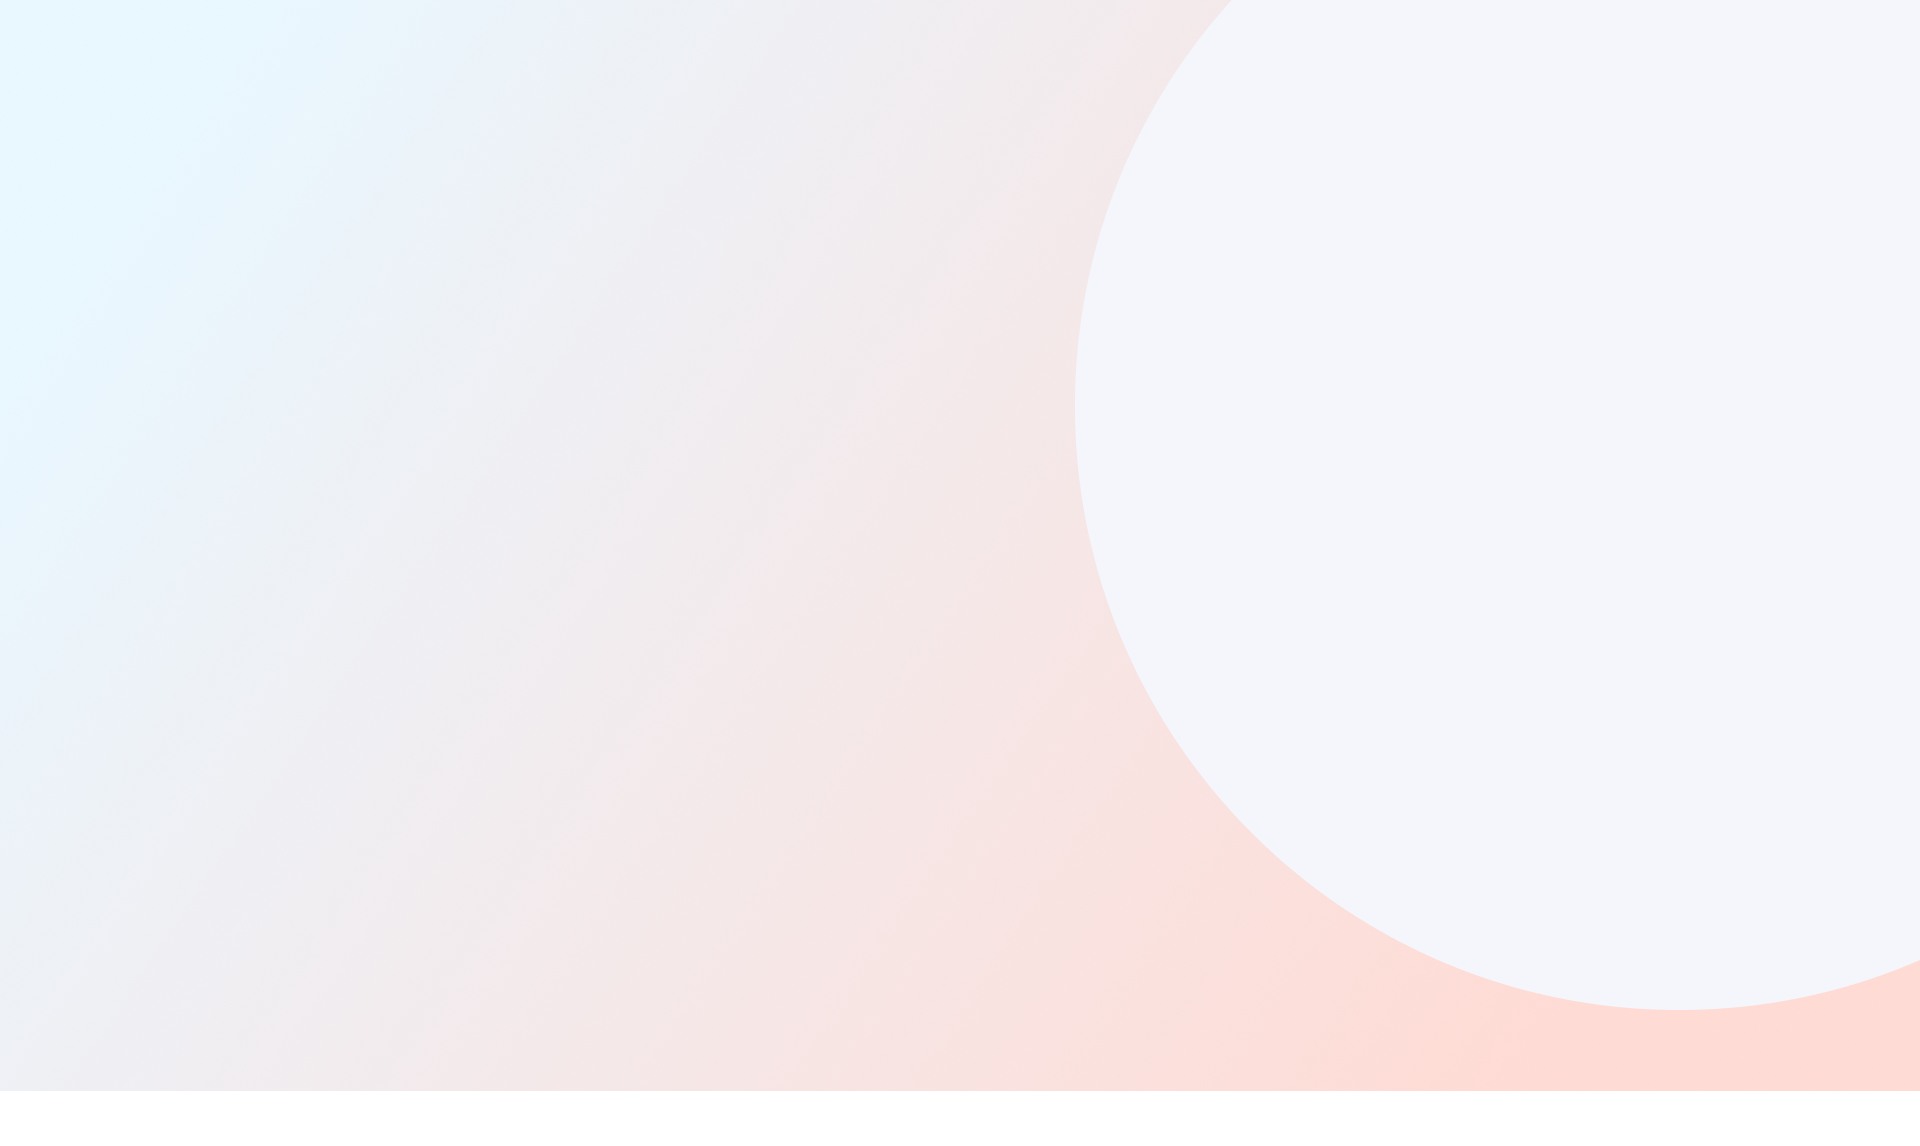
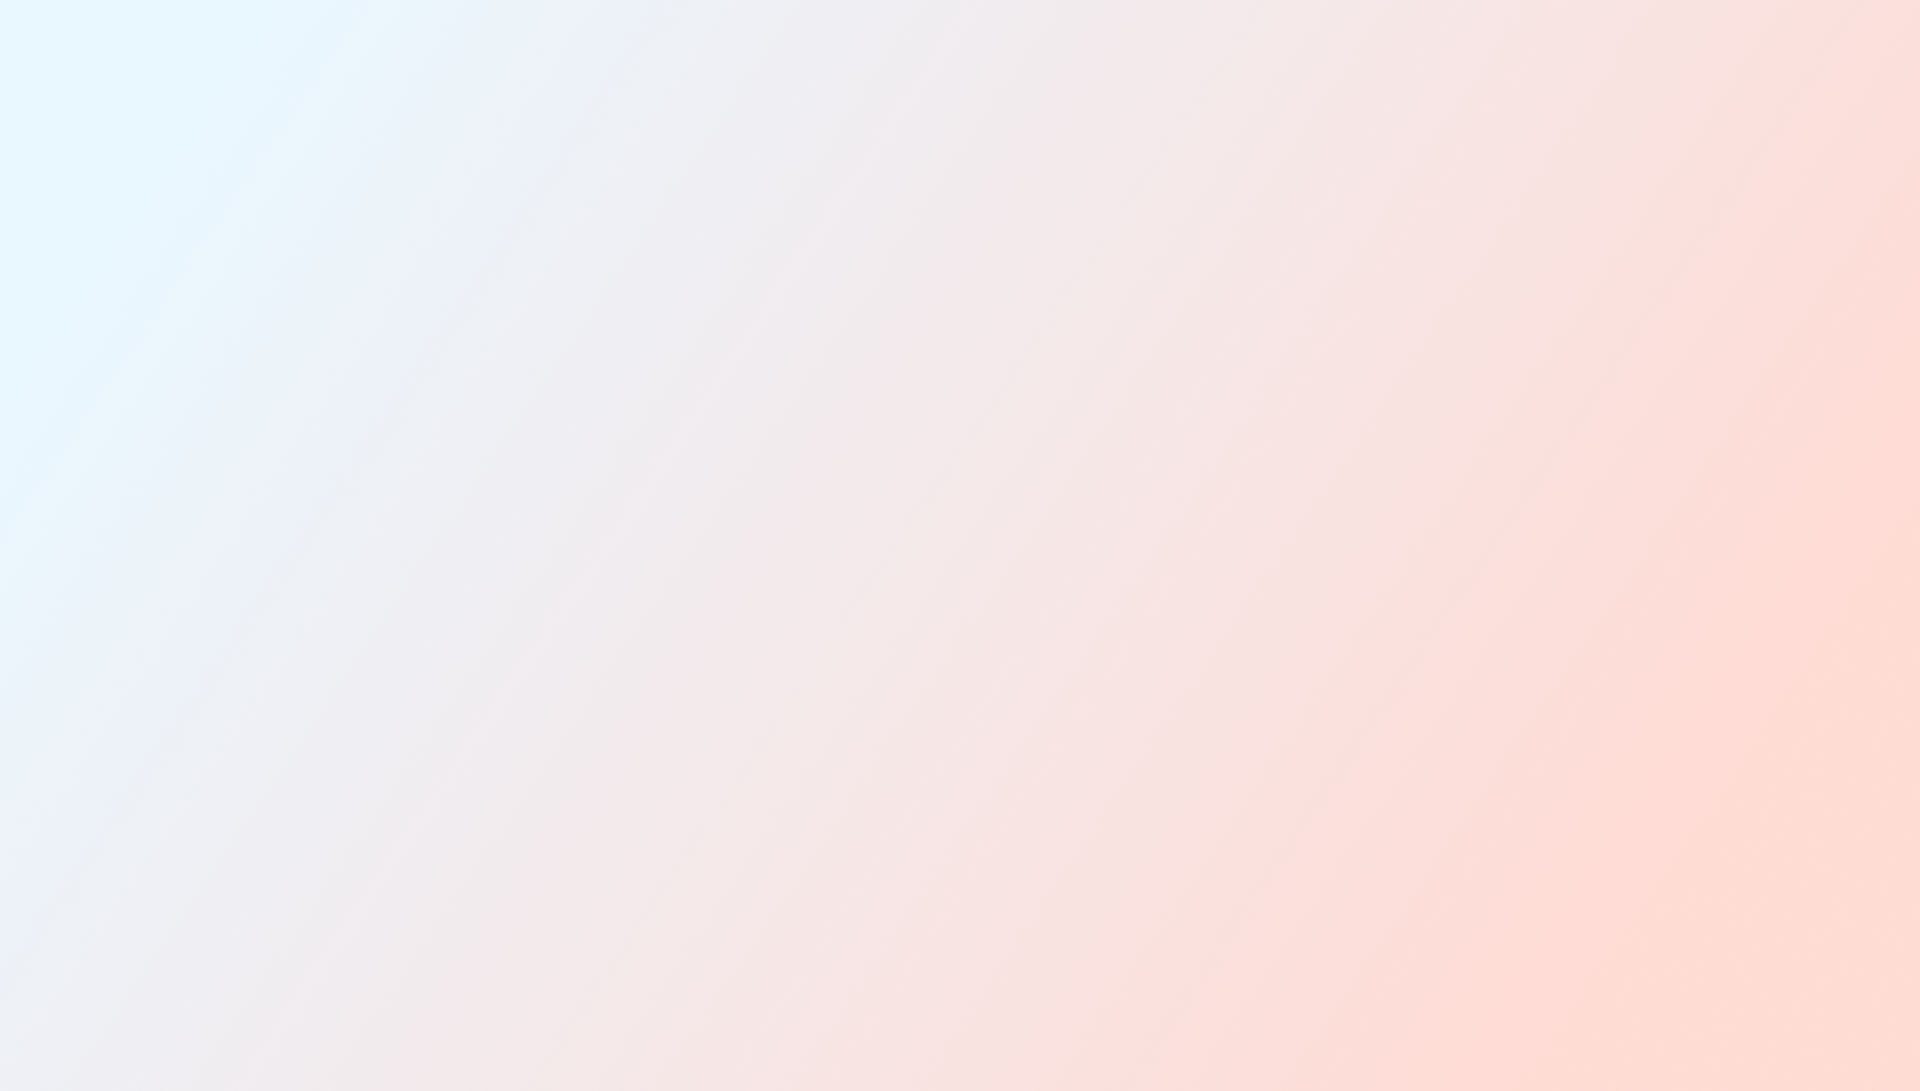
services section

Changed region(s): [[0.5938, 0.0, 1.0, 0.9038], [0.3438, 0.9349, 1.0, 1.0]]

diff --git a/src/components/HomeComponents/Services.jsx b/src/components/HomeComponents/Services.jsx
@@ -1,0 +1,133 @@
+import { Box, Container, Grid, Typography } from "@mui/material";
+import React from "react";
+import Header from "../Molecules/Header";
+import Image from "next/image";
+import CustomButton from "../Atoms/CustomButton";
+const Services = () => {
+  const data = [
+    {
+      id: 1,
+      title: "Social Media Marketing",
+      description:
+        "We let you to be always connect with anyone through a social media network.",
+      iconSrc: "/icons/social-media-icon.png",
+    },
+    {
+      id: 2,
+      title: "Paid Advertising",
+      description:
+        "Advertise your organization with one of the updated search engine algorithm.",
+      iconSrc: "/icons/advertising-icon.png",
+    },
+    {
+      id: 3,
+      title: "Advanced Analytics",
+      description:
+        "Our firm travels with an effective working strategy for all type of tasks.",
+      iconSrc: "/icons/advanced-analytics-icon.png",
+    },
+    {
+      id: 4,
+      title: "SEO Optimization",
+      description:
+        "Be at the top of google search by our incredible and organic SEO technique.",
+      iconSrc: "/icons/seo-rocket-icon.png",
+    },
+    {
+      id: 5,
+      title: "Funnel Optimization",
+      description:
+        "You would see the biggest gift would be from me and to make the others comfortable.",
+      iconSrc: "/icons/funnel-optimization-icon.png",
+    },
+    {
+      id: 6,
+      title: "Content Marketing",
+      description:
+        "Brand your firm with an intelligent team which is deal with social media strategy.",
+      iconSrc: "/icons/marketing-plan-icon.png",
+    },
+  ];
+  return (
+    <Box
+      sx={{
+        py: { xs: "80px", md: "173px" },
+        bgcolor: "secondary.main",
+        color: "white",
+      }}
+    >
+      <Container maxWidth="lg">
+        <Header badge="01 . Services" textColor="white" badgeColor="grey.1">
+          High-impact services to take your business to the next level
+        </Header>
+        <Grid
+          container
+          spacing={3}
+          sx={{
+            mt: { xs: "50px", md: "90px" },
+          }}
+        >
+          {data.map((card) => (
+            <Grid item key={card.id} xs={12} sm={6} md={4}>
+              <Box
+                sx={{
+                  p: { xs: "20px", sm: "40px" },
+                  bgcolor: "secondary.main2",
+                  borderRadius: "30px",
+                  maxWidth: { xs: "100%", md: "352px" },
+                  mx: "auto",
+                }}
+              >
+                <Box
+                  sx={{
+                    bgcolor: "secondary.main",
+                    p: "35px",
+                    width: 153,
+                    height: 153,
+                    borderRadius: "100%",
+                    display: "flex",
+                    justifyContent: "center",
+                    alignItems: "center",
+                  }}
+                >
+                  <Image src={card.iconSrc} alt="" width={75} height={85} />
+                </Box>
+                <Typography
+                  sx={{ color: "white", mt: "26px", mb: "14px", height: 66.69 }}
+                  variant="h5"
+                >
+                  {card.title}
+                </Typography>
+                <Typography
+                  sx={{
+                    color: "grey.1",
+                    overflow: "hidden",
+                    display: "-webkit-box",
+                    WebkitLineClamp: 3,
+                    WebkitBoxOrient: "vertical",
+                  }}
+                  variant="p"
+                >
+                  {card.description}
+                </Typography>
+                <Box sx={{ mt: "26px" }}>
+                  <CustomButton
+                    href={`/services/${card.id}`}
+                    variant="grayscale"
+                    icon
+                    iconGreyScale
+                    size="full"
+                  >
+                    View Service
+                  </CustomButton>
+                </Box>
+              </Box>
+            </Grid>
+          ))}
+        </Grid>
+      </Container>
+    </Box>
+  );
+};
+
+export default Services;

diff --git a/src/components/Atoms/CustomButton.jsx b/src/components/Atoms/CustomButton.jsx
@@ -2,11 +2,14 @@ import Link from "next/link";
 import React from "react";
 
 import cn from "classnames";
+import ArrowRightCircle from "./ArrowRightCircle";
 export const CustomButton = ({
   children,
   size = "",
   variant,
   href = "",
+  icon,
+  iconGreyScale,
   ...rest
 }) => {
   const Component = href ? Link : "button";
@@ -14,14 +17,18 @@ export const CustomButton = ({
     <Component
       href={href}
       className={cn(
-        "font-nunito text-white bg-secondary-main bg-secondary hover:text-secondary-main hover:bg-secondary-offWhite border border-secondary-main trans text-lg font-medium rounded-[7px] h-[55px] 2xl:h-[64px] w-[173px] flex justify-center items-center ",
+        "font-nunito text-white bg-secondary-main bg-secondary hover:text-secondary-main hover:bg-secondary-offWhite border border-secondary-main trans text-sm lg:text-lg font-medium rounded-[7px] h-[55px] 2xl:h-[64px] w-[173px] flex justify-center items-center gap-2 group",
         {
           "hover:!text-white hover:!bg-secondary-main !text-secondary-main bg-secondary-offWhite border border-secondary-main":
             variant === "outlined",
           "!bg-primary !text-secondary-main border-primary hover:!border-secondary-main hover:!bg-secondary-offWhite":
             variant === "primary",
+          "!bg-white !text-secondary-main border-primary hover:!border-secondary-main hover:!bg-primary":
+            variant === "white",
           "!bg-transparent border-none hover:!bg-transparent hover:border-none !text-secondary-main hover:opacity-70 w-fit px-[30px]":
             variant === "text",
+          "!bg-transparent hover:!bg-primary !text-[#525255] hover:!border-primary":
+            variant === "grayscale",
           "w-[200px] lg:w-[252px] ": size === "lg",
           "px-10 py-[18px] w-fit": size === "padding",
           "min-w-full": size === "full",
@@ -30,6 +37,7 @@ export const CustomButton = ({
       {...rest}
     >
       {children}
+      {icon && <ArrowRightCircle grayScale={iconGreyScale} />}
     </Component>
   );
 };

diff --git a/src/components/Atoms/ArrowRightCircle.jsx b/src/components/Atoms/ArrowRightCircle.jsx
@@ -1,0 +1,26 @@
+import cn from "classnames";
+import React from "react";
+
+const ArrowRightCircle = ({ grayScale, ...rest }) => {
+  return (
+    <svg
+      className={cn({
+        "grayscale-[100%] opacity-70 group-hover:grayscale-0 group-hover:opacity-100 duration-300 group-hover:ml-1 transition-all":
+          grayScale,
+      })}
+      xmlns="http://www.w3.org/2000/svg"
+      width={14}
+      height={15}
+      viewBox="0 0 14 15"
+      fill="none"
+      {...rest}
+    >
+      <path
+        d="M-3.0598e-07 7.5C-2.45463e-07 8.88447 0.410543 10.2378 1.17971 11.389C1.94888 12.5401 3.04213 13.4373 4.32122 13.9672C5.6003 14.497 7.00776 14.6356 8.36563 14.3655C9.7235 14.0954 10.9708 13.4287 11.9497 12.4497C12.9287 11.4708 13.5954 10.2235 13.8655 8.86563C14.1356 7.50776 13.997 6.1003 13.4672 4.82121C12.9373 3.54213 12.0401 2.44888 10.889 1.67971C9.73784 0.910542 8.38447 0.499999 7 0.499999C5.14458 0.503557 3.36617 1.2422 2.05418 2.55418C0.742198 3.86617 0.00355748 5.64458 -3.0598e-07 7.5ZM6.55577 4.67981L9.24807 7.10288C9.30316 7.15333 9.34716 7.21469 9.37725 7.28305C9.40735 7.35142 9.42289 7.4253 9.42289 7.5C9.42289 7.5747 9.40735 7.64858 9.37725 7.71694C9.34716 7.78531 9.30316 7.84667 9.24807 7.89711L6.55577 10.3202C6.44988 10.413 6.31186 10.4606 6.17128 10.4528C6.0307 10.4451 5.89875 10.3826 5.8037 10.2788C5.70864 10.1749 5.65804 10.0379 5.66274 9.89723C5.66745 9.75651 5.72707 9.62324 5.82884 9.52596L8.07692 7.5L5.82884 5.47404C5.77492 5.42679 5.73098 5.36925 5.69959 5.30479C5.6682 5.24034 5.65 5.17026 5.64606 5.09867C5.64212 5.02709 5.65251 4.95544 5.67662 4.88792C5.70074 4.82041 5.73809 4.75839 5.7865 4.7055C5.8349 4.65262 5.89338 4.60993 5.9585 4.57995C6.02362 4.54996 6.09408 4.53328 6.16573 4.53089C6.23738 4.52849 6.30879 4.54044 6.37577 4.56601C6.44275 4.59158 6.50394 4.63027 6.55577 4.67981Z"
+        fill="#5956E8"
+      />
+    </svg>
+  );
+};
+
+export default ArrowRightCircle;

diff --git a/src/components/Molecules/Header.jsx b/src/components/Molecules/Header.jsx
@@ -1,0 +1,46 @@
+import { Box, Typography } from "@mui/material";
+import Image from "next/image";
+import React from "react";
+import Badge from "../Atoms/Badge";
+import CustomButton from "../Atoms/CustomButton";
+
+const Header = ({
+  children,
+  badge,
+  badgeColor,
+  textColor = "secondary-main",
+}) => {
+  return (
+    <Box
+      sx={{
+        display: "flex",
+        justifyContent: "space-between",
+        alignItems: "end",
+        flexWrap: "wrap",
+        gap: { xs: "40px" },
+      }}
+    >
+      <Box
+        sx={{
+          display: "flex",
+          alignItems: "start",
+          gap: "40px",
+          flexWrap: "wrap",
+        }}
+      >
+        <Image src="/icons/setting-icon.svg" alt="" width={88} height={88} />
+        <Box sx={{ maxWidth: "620px" }}>
+          <Badge color={badgeColor}>{badge}</Badge>
+          <Typography variant="h2" sx={{ color: textColor, mt: "15px" }}>
+            {children}
+          </Typography>
+        </Box>
+      </Box>
+      <CustomButton variant="white" icon>
+        Our Services
+      </CustomButton>
+    </Box>
+  );
+};
+
+export default Header;

diff --git a/src/app/page.js b/src/app/page.js
@@ -1,5 +1,7 @@
 import Hero from "@/components/HomeComponents/Hero";
+import Services from "@/components/HomeComponents/Services";
 import Navbar from "@/components/Layout/Navbar";
+import { Box } from "@mui/material";
 import Image from "next/image";
 export const metadata = {
   title: {
@@ -8,9 +10,13 @@ export const metadata = {
 };
 export default function Home() {
   return (
-    <div className="bg-[url('/images/hero-bg.png')] bg-no-repeat 2xl:bg-cover min-h-full w-full">
-      <Navbar />
-      <Hero />
-    </div>
+    <Box>
+      <Box className="bg-[url('/images/hero-bg.png')] relative -z-0 bg-no-repeat 2xl:bg-cover min-h-full w-full overflow-hidden">
+        <Image src="/icons/hero-circle.svg" alt="" width={2208} height={2208} className="absolute right-0 top-0 object-cover -z-10 max-sm:hidden" />
+        <Navbar />
+        <Hero />
+      </Box>
+      <Services />
+    </Box>
   );
 }

diff --git a/src/components/Atoms/Badge.jsx b/src/components/Atoms/Badge.jsx
@@ -1,7 +1,7 @@
 import { Box, Typography } from "@mui/material";
 import React from "react";
 
-const Badge = ({ children }) => {
+const Badge = ({ children, color }) => {
   return (
     <Box sx={{ display: "flex", alignItems: "center", gap: 1 }}>
       <Box sx={{ display: "flex", gap: 0.5 }}>
@@ -30,7 +30,12 @@ const Badge = ({ children }) => {
       </Box>
       <Typography
         component="p"
-        sx={{ textTransform: "uppercase", fontWeight: 500, fontSize: "15px" }}
+        sx={{
+          textTransform: "uppercase",
+          fontWeight: 500,
+          fontSize: "15px",
+          color: color,
+        }}
       >
         {children}
       </Typography>

diff --git a/src/components/theme.js b/src/components/theme.js
@@ -13,6 +13,9 @@ export const theme = createTheme({
             darkGray: "#555555",
             offWhite: "#F6F6F6",
         },
+        grey: {
+            1: "#D0D0D0"
+        }
     },
     typography: {
         fontFamily: "Nunito",
@@ -25,6 +28,7 @@ export const theme = createTheme({
             fontSize: "40px",
             fontWeight: 600,
             color: "#292930"
+
         },
         h3: {
             fontSize: "35px",

diff --git a/src/app/layout.js b/src/app/layout.js
@@ -16,7 +16,7 @@ export default function RootLayout({ children }) {
   return (
     <html lang="en">
       <link href="/icons/promote-faicon.png" rel="shortcut icon" type="image/x-icon"></link>
-      <body>
+      <body className="relative">
         <MainLayout>
           {children}
         </MainLayout>

diff --git a/src/components/Layout/Footer.jsx b/src/components/Layout/Footer.jsx
@@ -89,7 +89,7 @@ export default function Footer() {
     <Box
       sx={{
         backgroundColor: "secondary.main",
-        py: { xs: "80px", md: "190px" },
+        py: { xs: "80px", md: "100px" },
         color: "white",
       }}
     >

diff --git a/src/app/services/[slug]/page.jsx b/src/app/services/[slug]/page.jsx
@@ -1,0 +1,7 @@
+import React from "react";
+
+const Service = ({ params }) => {
+  return <div>My Post: {params.slug}</div>;
+};
+
+export default Service;
